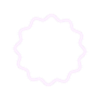
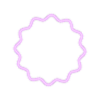
Syreen song: the ring wiggles for 588 ms
Claude-Session: https://claude.ai/code/session_017zhbowMT1FcEQenEBLRQA2

Changed region(s): [[0.12, 0.12, 0.87, 0.87]]

diff --git a/tools/make_art.py b/tools/make_art.py
@@ -546,7 +546,7 @@ def build_song(out):
             save(wedge, out, f"images/projectiles/sc/song-{t + 1}-{facing}.png", False)
     # ...and with them, a ring wiggling round the Syreen without growing,
     # then fading away
-    for t in range(10):
+    for t in range(14):
         u = 3 / n  # the size of the third ring
         r = 10 + u * 76
         img = Image.new("RGBA", (size * 4, size * 4), (0, 0, 0, 0))
@@ -556,7 +556,7 @@ def build_song(out):
             a = math.radians(i)
             rr = (r + 2.2 * math.sin(12 * a + 6 * u + 1.3 * t)) * 4
             pts.append((size * 2 + rr * math.sin(a), size * 2 - rr * math.cos(a)))
-        alpha = round(230 * (1 - u) ** 0.7 * (1, 1, 1, 1, 1, 1, 1, 0.75, 0.5, 0.25)[t])
+        alpha = round(230 * (1 - u) ** 0.7 * ((1,) * 11 + (0.75, 0.5, 0.25))[t])
         d.line(pts, fill=(230, 130, 255, alpha), width=10)
         d.line(pts, fill=(255, 220, 255, alpha), width=4)
         ring = img.resize((size, size), Image.LANCZOS).filter(ImageFilter.GaussianBlur(0.5))
